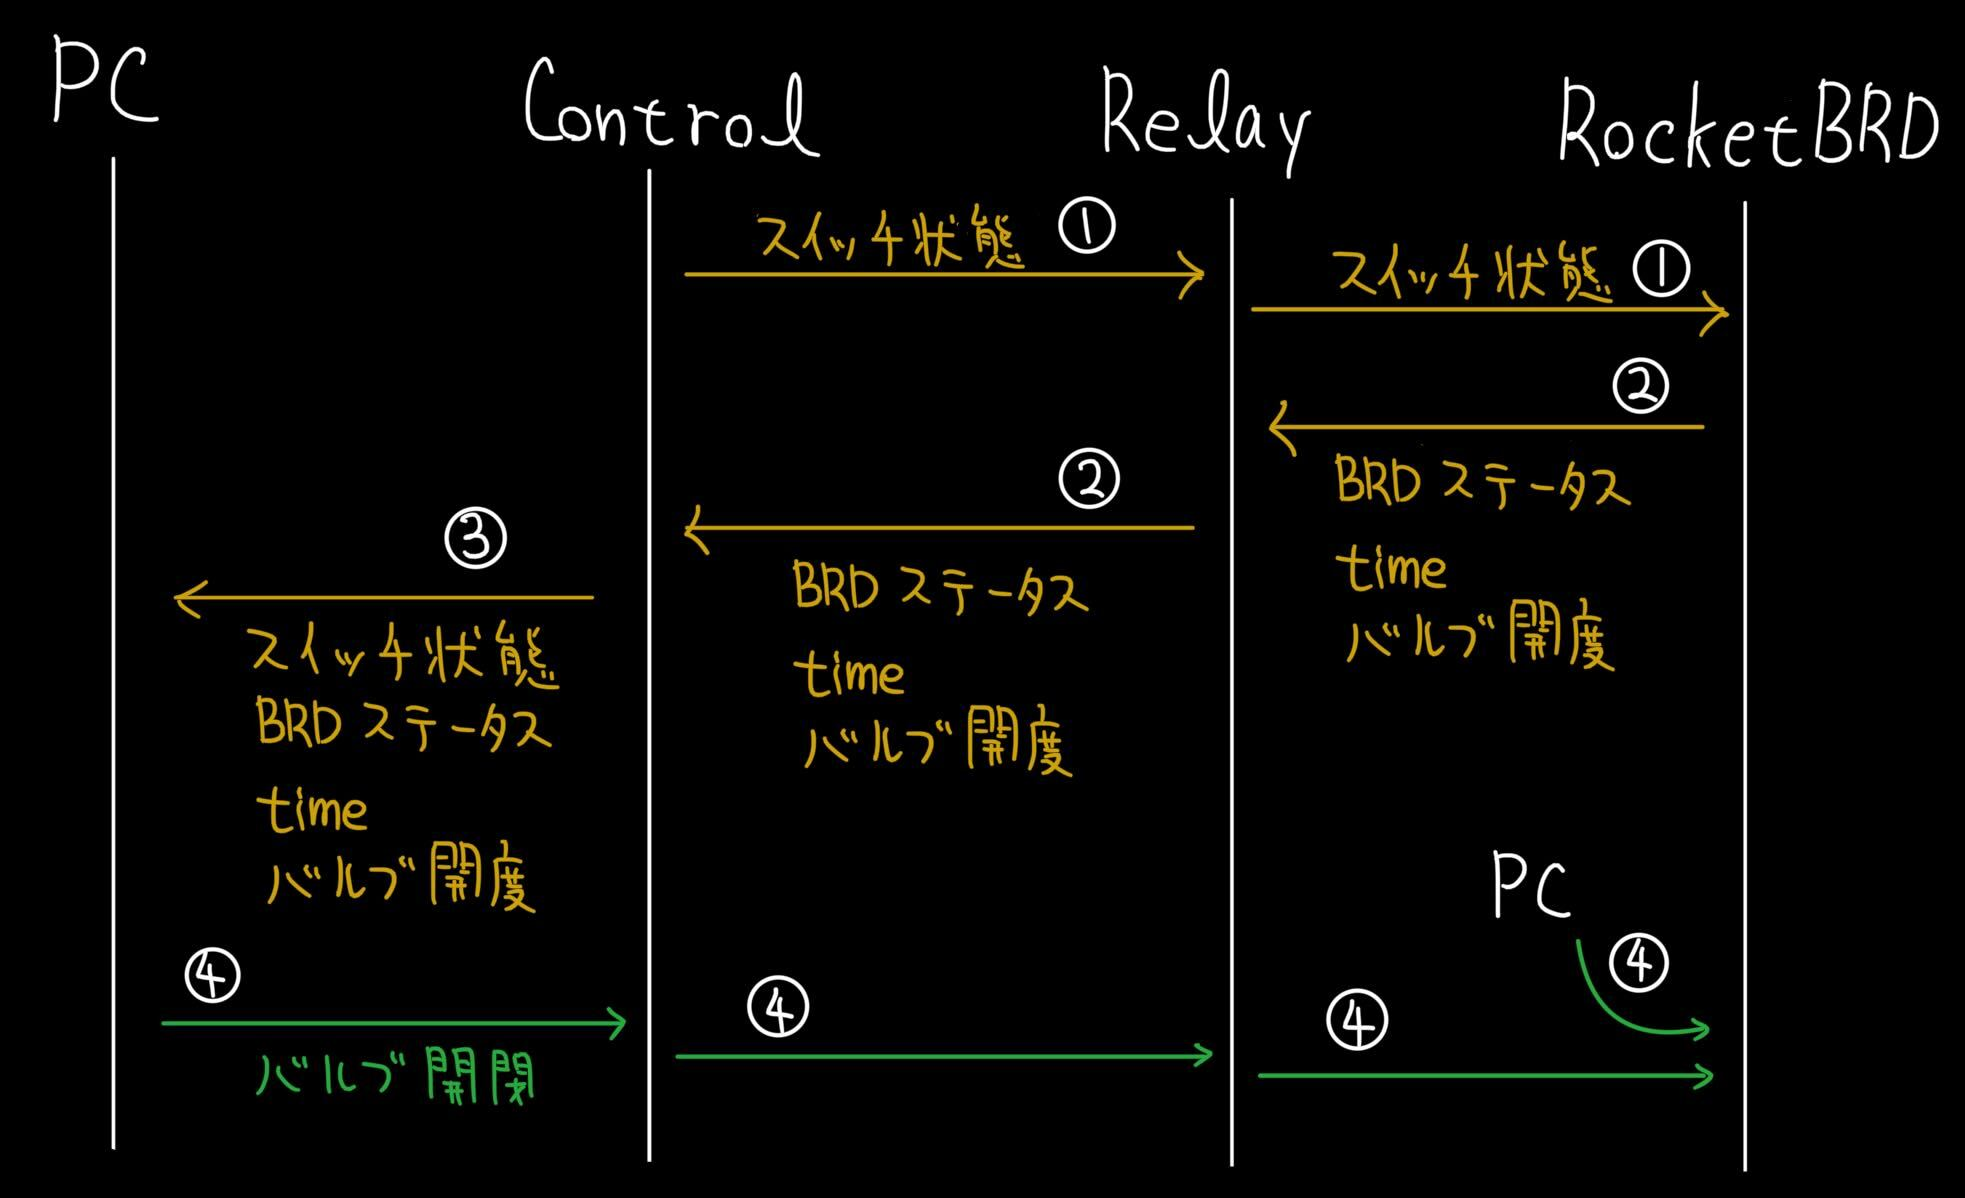
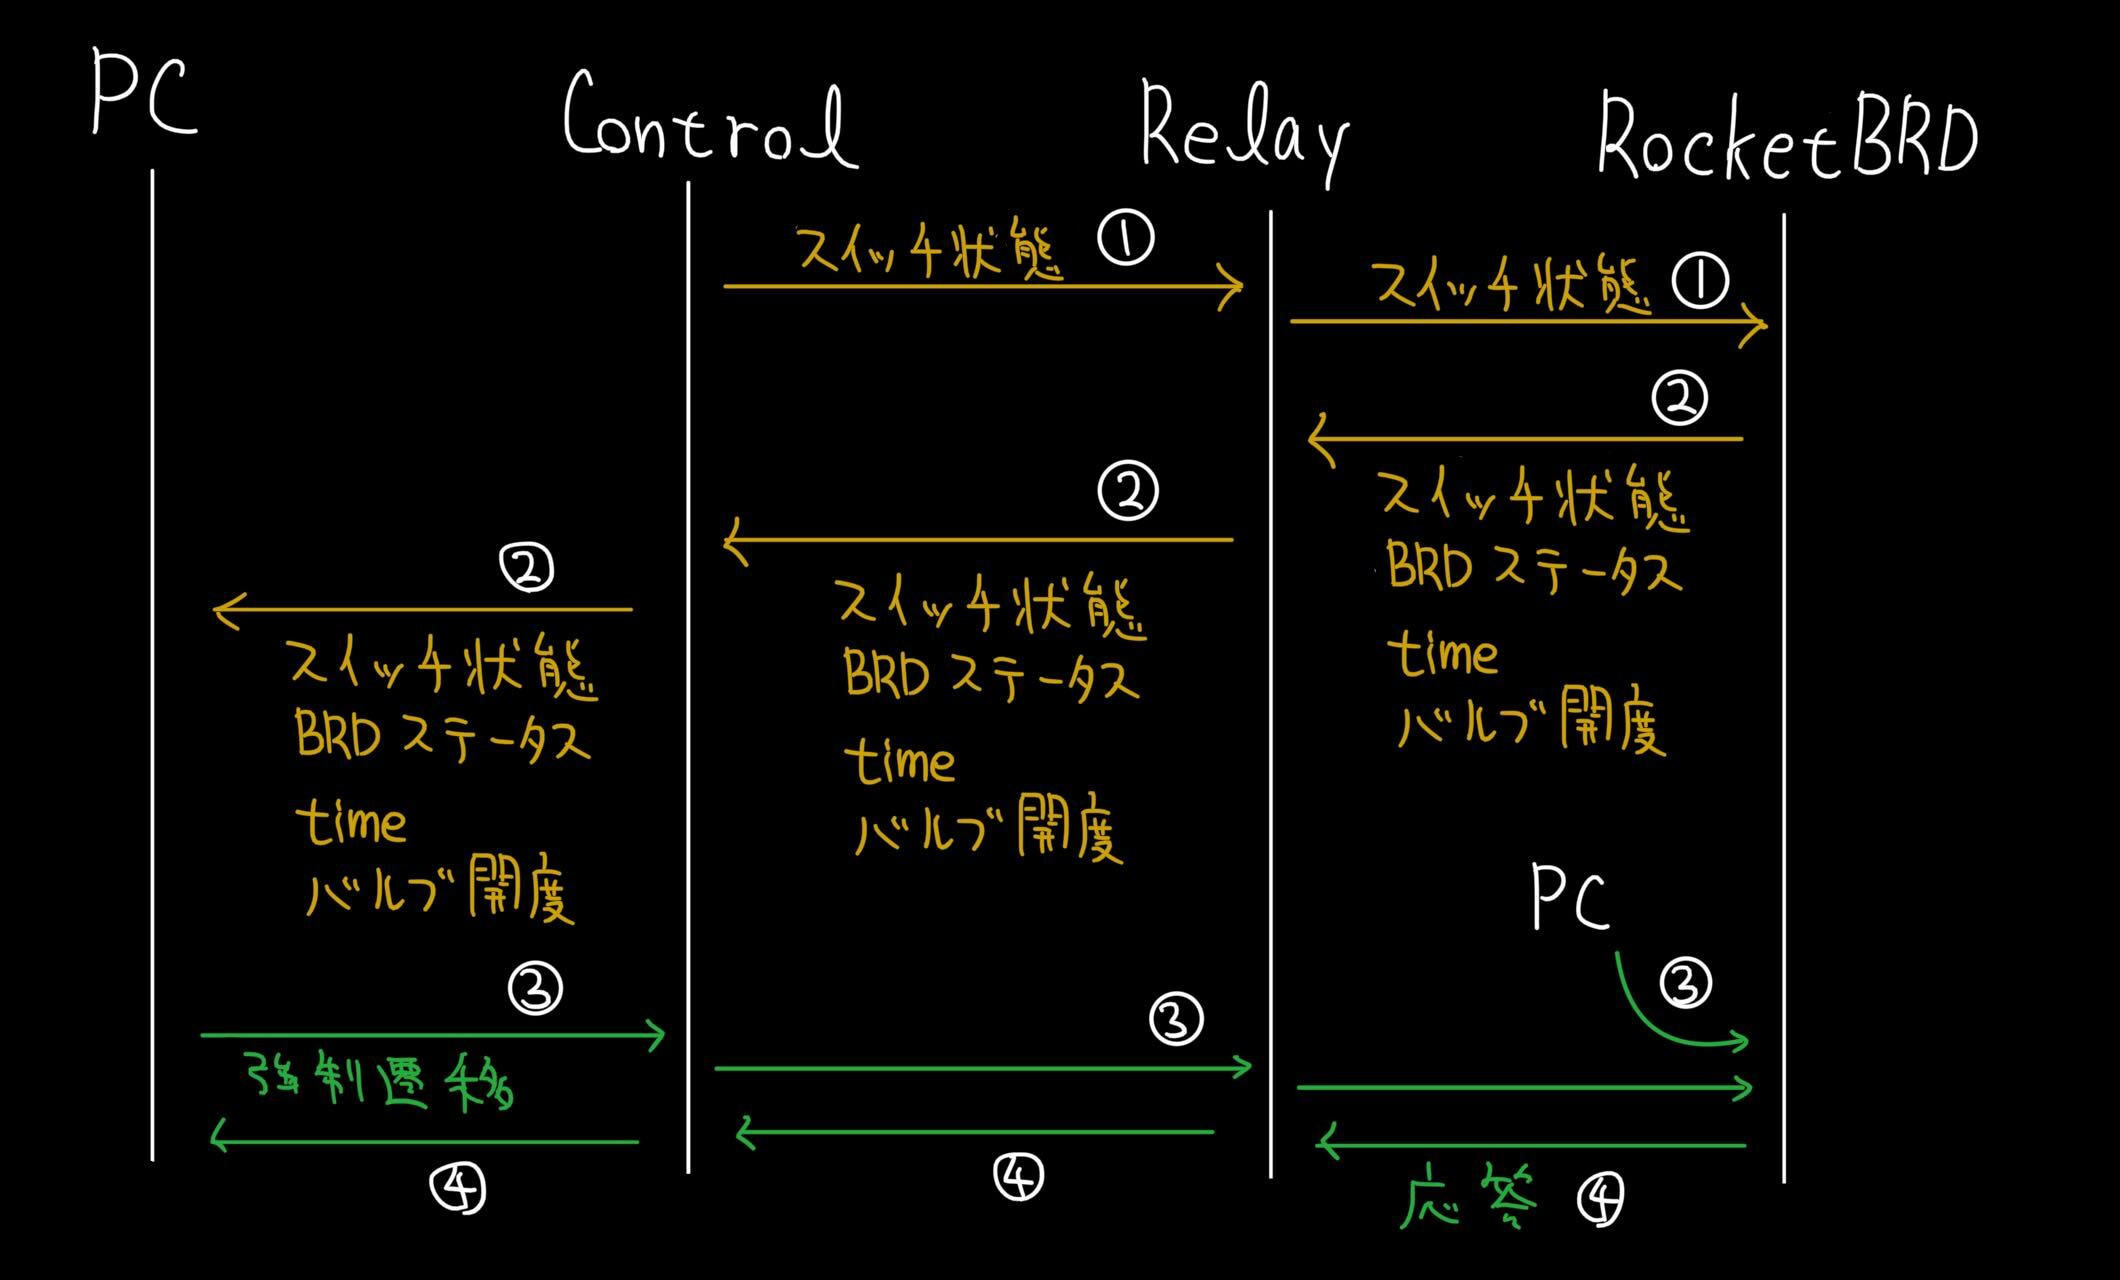
📝 シリアル通信の仕様書を改定

diff --git a/documents/serialCom.md b/documents/serialCom.md
@@ -5,9 +5,9 @@
 ![](figures/serialCom.jpg)
 
 # 通信プロトコルの仕様
-| head(1byte) | command(1byte) | length(1byte)    | parameters(nbyte) |
-|-------------|----------------|------------------|-------------------|
-| `0x71`      |                | n+3              |                   |
+| head(1byte) | command(1byte) | length(1byte)    | parameters(nbyte) | parity(1byte) |
+|-------------|----------------|------------------|-------------------|---------------|
+| `0x71`      |                | n+4              |                   |               |
 
 通信コマンドはackと組み立て時バルブ開閉だけにしたい
 
@@ -15,45 +15,42 @@
 
 通信エラーの際，マイコン側で充填電磁弁を切断する等のことは，なにもしない．非常時の対処は点火点にてキルスイッチを押すことで行う．
 
+パリティはパラメータの総和を63倍し，256で割った値である．
+
 ## 1. スイッチ状態転送コマンド
-| head(1byte) | command(1byte) | length(1byte)    | parameters(1byte) |
-|-------------|----------------|------------------|-------------------|
-| `0x71`      | `0x21`         | 4                |  `0bEFGH00PP`     |
+| head(1byte) | command(1byte) | length(1byte)    | parameters(1byte) | parity(1byte) |
+|-------------|----------------|------------------|-------------------|---------------|
+| `0x71`      | `0x21`         | `0x05`           |  `0bE0F0G0H0`     |               |
 
 `EFGH`...それぞれ外部ダンプ，内部ダンプ，充填，点火スイッチのステータス．`0b1`の場合ONで，`0b0`の場合OFF．
 
 `PP` ...上のうちONになってるものの数のmod4
 
 ## 2. ロケット基板テレメトリ送信コマンド
-| head(1byte) | command(1byte) | length(1byte)    | parameters(5byte) |
-|-------------|----------------|------------------|-------------------|
-| `0x71`      | `0x38`         | 8                |                   |
+| head(1byte) | command(1byte) | length(1byte)    | parameters(6byte) | parity(1byte) |
+|-------------|----------------|------------------|-------------------|---------------|
+| `0x71`      | `0x61`         | `0x0A`           |                   |               |
 
-| param[0-1]  | param[2-3]     | param[4]         |
-|-------------|----------------|------------------|
-| time        | pulsecounter   | BRDstatus        |
-|             |                | `0bXYZ000PP`     |
+| param[0]    | param[1-2]  | param[3-4]     | param[5]         |
+|-------------|-------------|----------------|------------------|
+| swstatus    | time        | pulsecounter   | BRDstatus        |
+| same as 1   |             |                | `0b0X0Y0Z00`     |
 
 `X` ... 基板がアクティブかどうか．アクティブなら`0b1`，light sleep中なら`0b0`．
 
 `YZ` ... 基板の動作モード．
 
-`PP` ... XYZに含まれる1の数
-
-## 3. GSEバルブシステムテレメトリ送信コマンド
-| head(1byte) | command(1byte) | length(1byte)    | parameters(6byte) |
-|-------------|----------------|------------------|-------------------|
-| `0x71`      | `0x61`         | 9                | 1+2               |
-
-## 4. 強制遷移コマンド
-| head(1byte) | command(1byte) | length(1byte)    | parameters(1byte) |
-|-------------|----------------|------------------|-------------------|
-| `0x71`      | `0xAA`         | 4                | `0bXYZHIPPP`      |
+## 3. 強制遷移コマンド
+| head(1byte) | command(1byte) | length(1byte)    | parameters(1byte) | parity(1byte) |
+|-------------|----------------|------------------|-------------------|---------------|
+| `0x71`      | `0xEE`         | `0x05`           |  `0b0X0YZ0H0`     |               |
 
 `X` ... 基板をアクティブにするかどうか．アクティブにするなら`0b1`，light sleepにするなら`0b0`．
 
 `YZ` ... 動作モードを強制的に指定する．
 
-`H` ... `0b1`の場合バルブの開度を強制的に指定する．開閉は`I`を参照
+`H` ... `0b1`の場合バルブの開度を強制的に指定する．開閉のどちらかにするかは`I`を参照
 
 `I` ... バルブについて，`0b1`の場合開き，`0b0`の場合閉める．
+
+応答は1.2.によってわかるため返さないとする．
